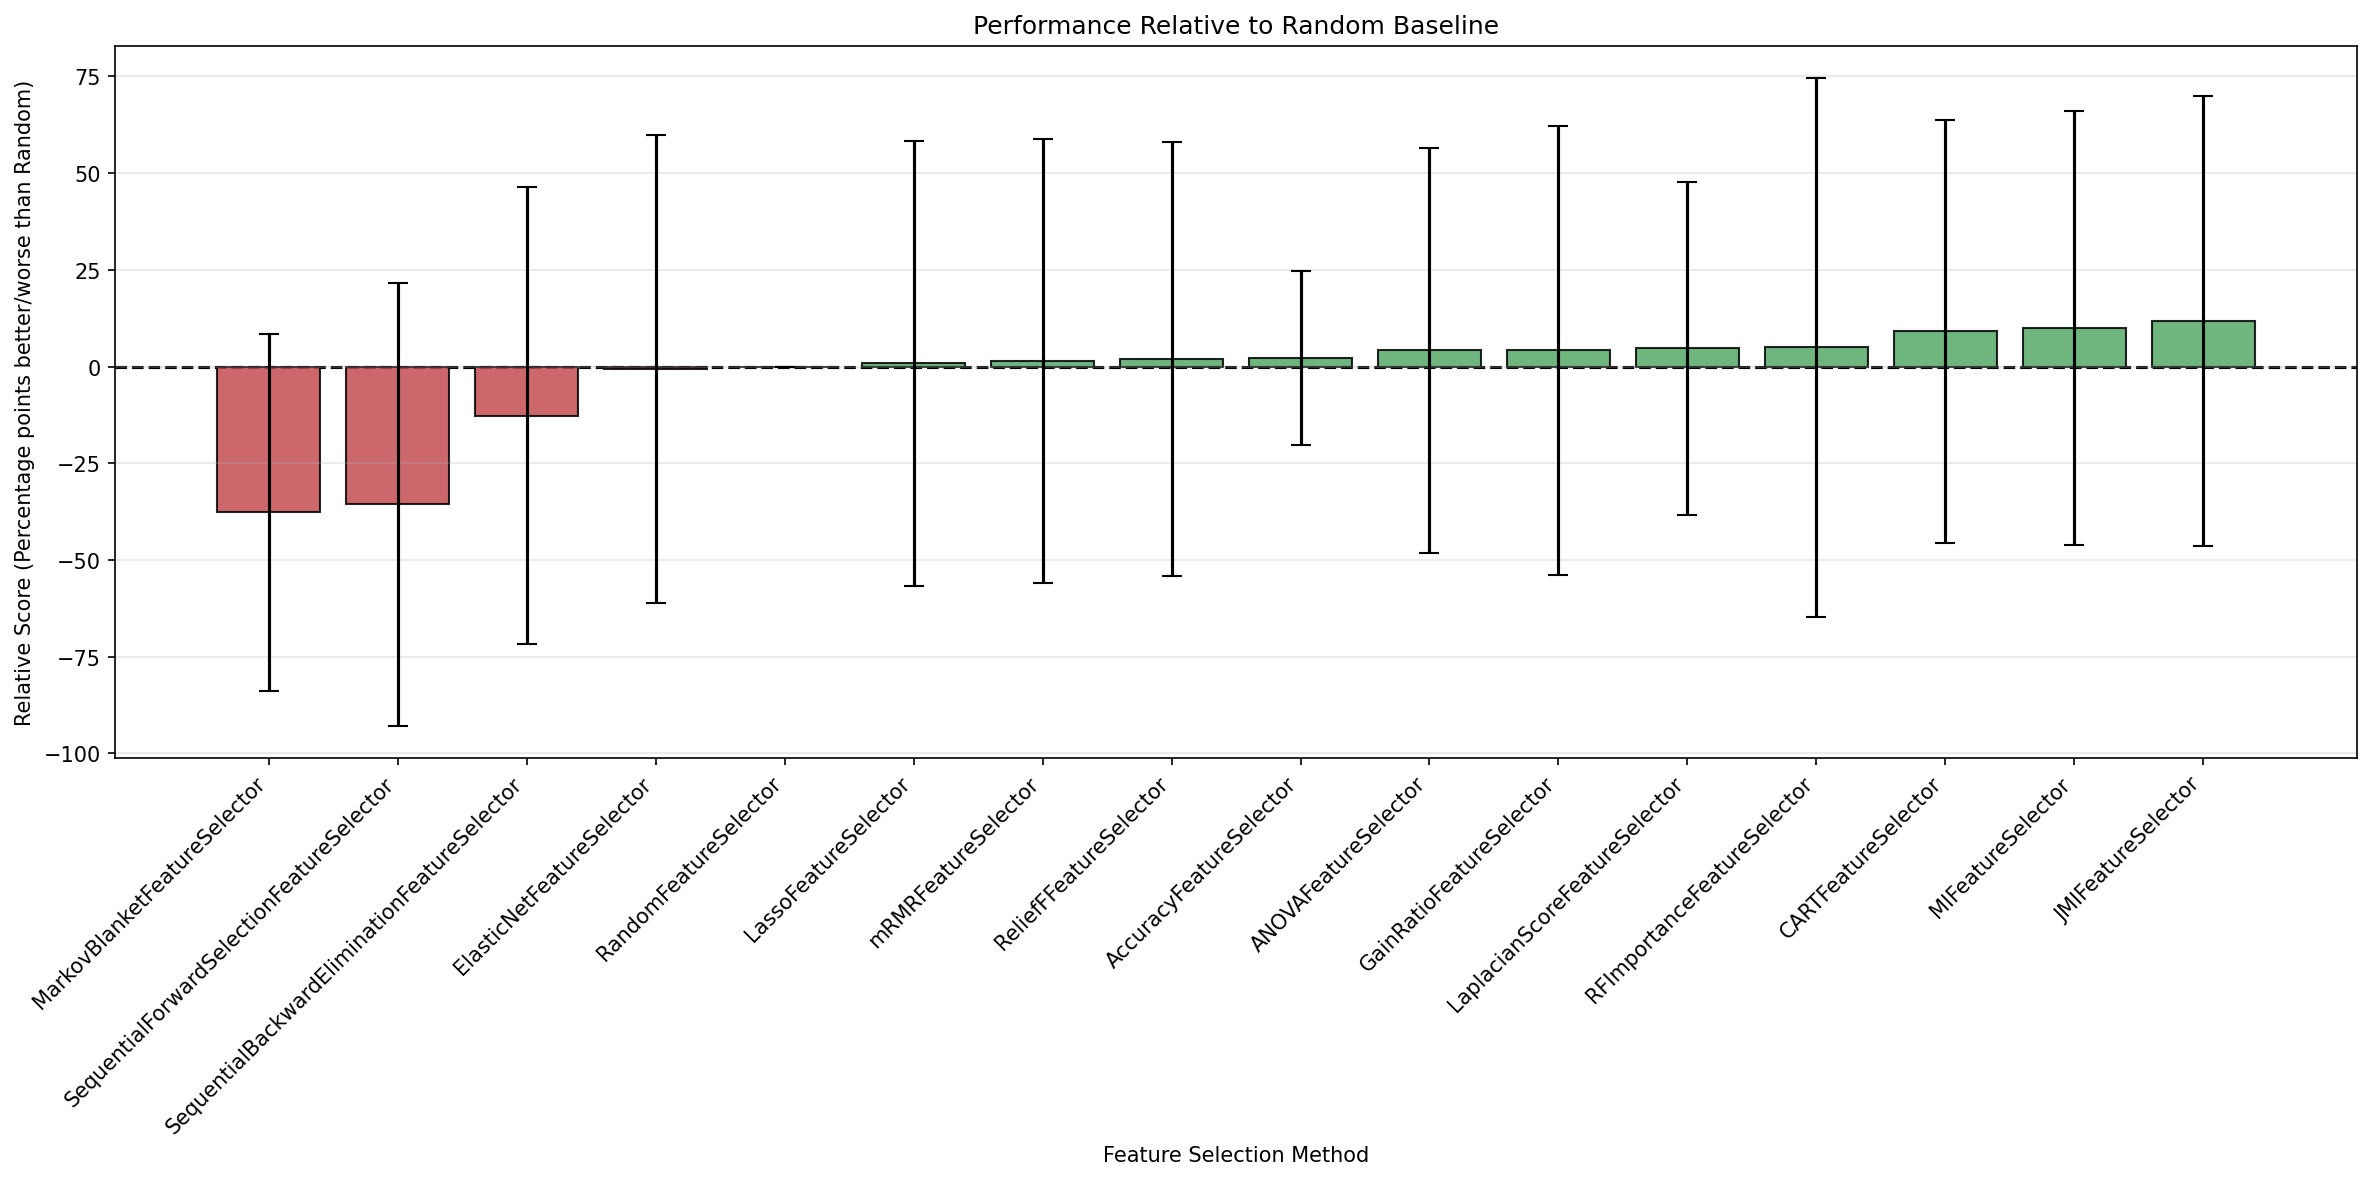
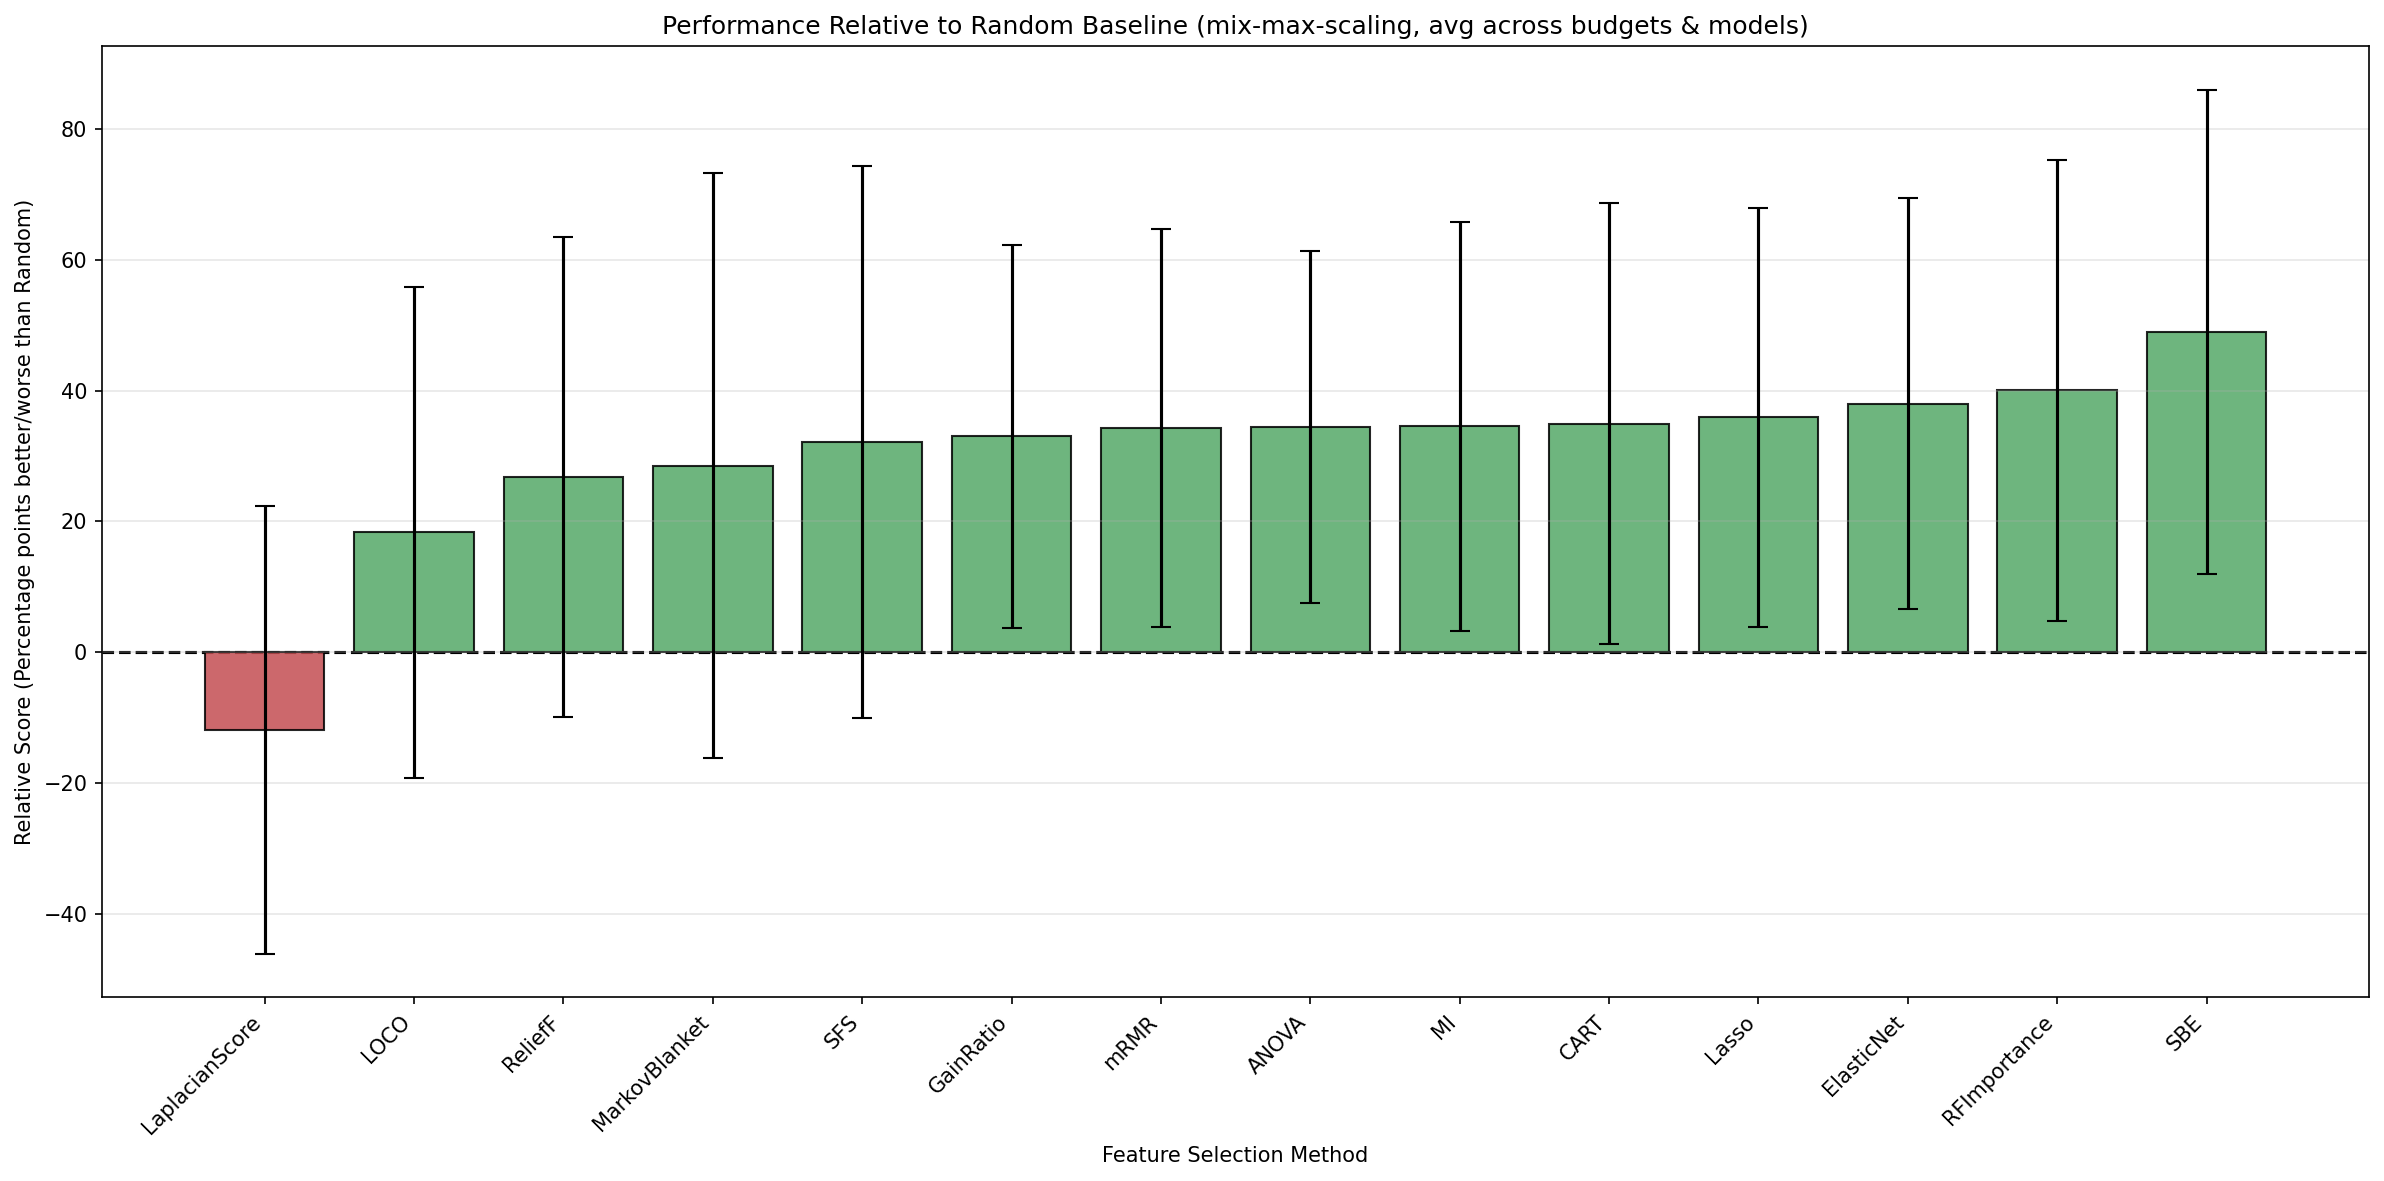
maint: make beautiful, average across buget and model, use min-max scaling

diff --git a/plotting_code/performance/relative_performance_v1.py b/plotting_code/performance/relative_performance_v1.py
@@ -1,3 +1,4 @@
+import ast
 from pathlib import Path
 import numpy as np
 import pandas as pd
@@ -5,7 +6,7 @@ from matplotlib import pyplot as plt
 
 FILE_NAME = "results_per_split.csv"
 PLOT_NAME = "relative_performance_v1.png"
-PLOT_TITLE = "Performance Relative to Random Baseline"
+PLOT_TITLE = "Performance Relative to Random Baseline (mix-max-scaling, avg across budgets & models)"
 X_LABEL = "Feature Selection Method"
 Y_LABEL = "Relative Score (Percentage points better/worse than Random)"
 
@@ -17,54 +18,73 @@ METRIC_DIRECTIONS = {
 
 
 def calculate_relative_performance(df):
-    # Group by 'metric'.
-    group_cols = ["metric"]
+    df = df.copy()
 
-    required_cols = group_cols + ["feature_selection_method", "metric_error"]
-    df_clean = df.dropna(subset=required_cols).copy()
+    # --- DATA CLEANING ---
+    if "feature_selection_method" in df.columns:
+        # Strip "FeatureSelector" from all methods except the Random one,
+        # because we need exactly "RandomFeatureSelector" for the baseline extraction later.
+        mask = df["feature_selection_method"] != "RandomFeatureSelector"
+        df.loc[mask, "feature_selection_method"] = df.loc[mask, "feature_selection_method"].str.replace(
+            "FeatureSelector", "", regex=False)
 
-    # 1. Adjust metric values so "Higher is ALWAYS Better"
-    def adjust_direction(row):
-        is_lower_better = METRIC_DIRECTIONS.get(row["metric"], True)
-        if is_lower_better:
-            return -row["metric_error"]
-        return row["metric_error"]
+        # Rename specific methods to their acronyms/new names
+        df["feature_selection_method"] = df["feature_selection_method"].replace({
+            "Accuracy": "LOCO",
+            "SequentialBackwardElimination": "SBE",
+            "SequentialForwardSelection": "SFS"
+        })
 
-    df_clean["performance"] = df_clean.apply(adjust_direction, axis=1)
+        # Filter out JMI
+        df = df[df["feature_selection_method"] != "JMI"]
 
-    # 2. Average the performance per method, per task
-    df_collapsed = df_clean.groupby(
-        group_cols + ["feature_selection_method"]
-    )["performance"].mean().reset_index()
+    # ---------------------
 
-    # 3. Min-Max Scale the performance per task (0 = Worst, 100 = Best)
+    def extract_model_cls(model_details):
+        if pd.isna(model_details):
+            return "Unknown"
+        details_dict = ast.literal_eval(str(model_details))
+        return details_dict.get('model_cls', "Unknown")
+
+    df["model_cls"] = df["model_details"].apply(extract_model_cls)
+
+    # 1. AVERAGE PHASE
+    df_collapsed = df.groupby(
+        ["tid", "metric", "feature_selection_method"]
+    )["metric_error"].mean().reset_index()
+
+    # 2. Min-Max Scale the performance per task (100 = Best/Lowest Error, 0 = Worst/Highest Error)
     def min_max_scale(group):
         min_val = group.min()
         max_val = group.max()
         if max_val == min_val:
             return pd.Series(100.0, index=group.index)
-        return ((group - min_val) / (max_val - min_val)) * 100.0
+        return ((max_val - group) / (max_val - min_val)) * 100.0
 
-    df_collapsed["scaled_score"] = df_collapsed.groupby(group_cols)["performance"].transform(min_max_scale)
+    df_collapsed["scaled_score"] = df_collapsed.groupby(["tid", "metric"])["metric_error"].transform(min_max_scale)
 
-    # 4. Extract the RandomFeatureSelector baseline scores
+    # 3. Extract the RandomFeatureSelector baseline scores
     random_scores = df_collapsed[df_collapsed["feature_selection_method"] == "RandomFeatureSelector"][
-        group_cols + ["scaled_score"]]
+        ["tid", "metric", "scaled_score"]
+    ]
     random_scores = random_scores.rename(columns={"scaled_score": "random_score"})
 
-    # 5. Merge the baseline back and calculate the Relative Score
-    df_collapsed = df_collapsed.merge(random_scores, on=group_cols, how="left")
+    # 4. Merge the baseline back and calculate the Relative Score
+    df_collapsed = df_collapsed.merge(random_scores, on=["tid", "metric"], how="left")
 
-    # If a dataset didn't have a Random baseline run, assume 0 to prevent NaNs
+    # If a dataset didn't have a Random baseline run, assume baseline was 0
     df_collapsed["random_score"] = df_collapsed["random_score"].fillna(0)
 
-    # Subtract baseline: Now >0 is better than random, <0 is worse than random
+    # Subtract baseline
     df_collapsed["relative_score"] = df_collapsed["scaled_score"] - df_collapsed["random_score"]
 
-    # 6. Aggregate mean score and std per feature selection method
+    # 5. Aggregate mean score and std per feature selection method
     agg_df = df_collapsed.groupby("feature_selection_method")["relative_score"].agg(["mean", "std"]).reset_index()
     agg_df.columns = ["feature_selection_method", "mean_score", "std_score"]
     agg_df["std_score"] = agg_df["std_score"].fillna(0)
+
+    # 6. Drop the Random baseline from the final bar chart, since its relative score is always 0
+    agg_df = agg_df[agg_df["feature_selection_method"] != "RandomFeatureSelector"]
 
     return agg_df
 
